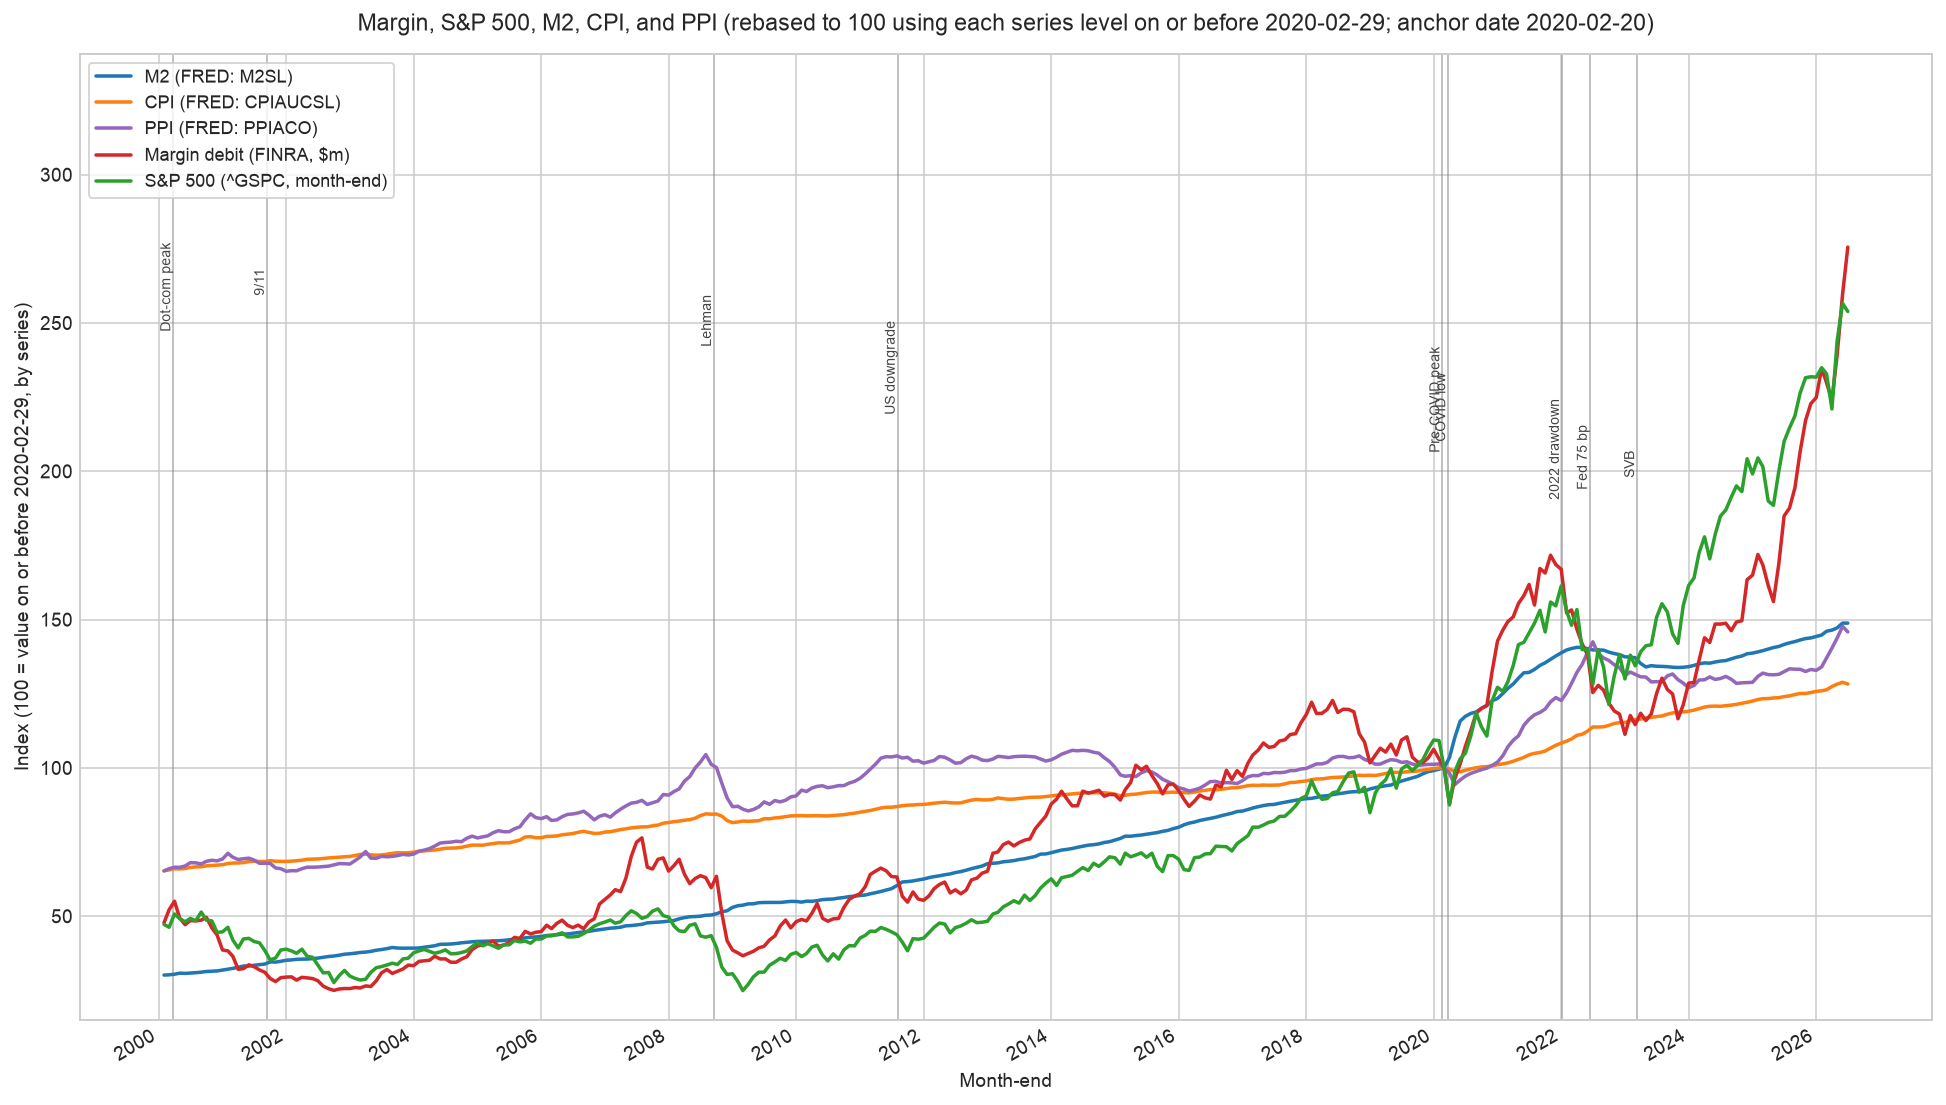
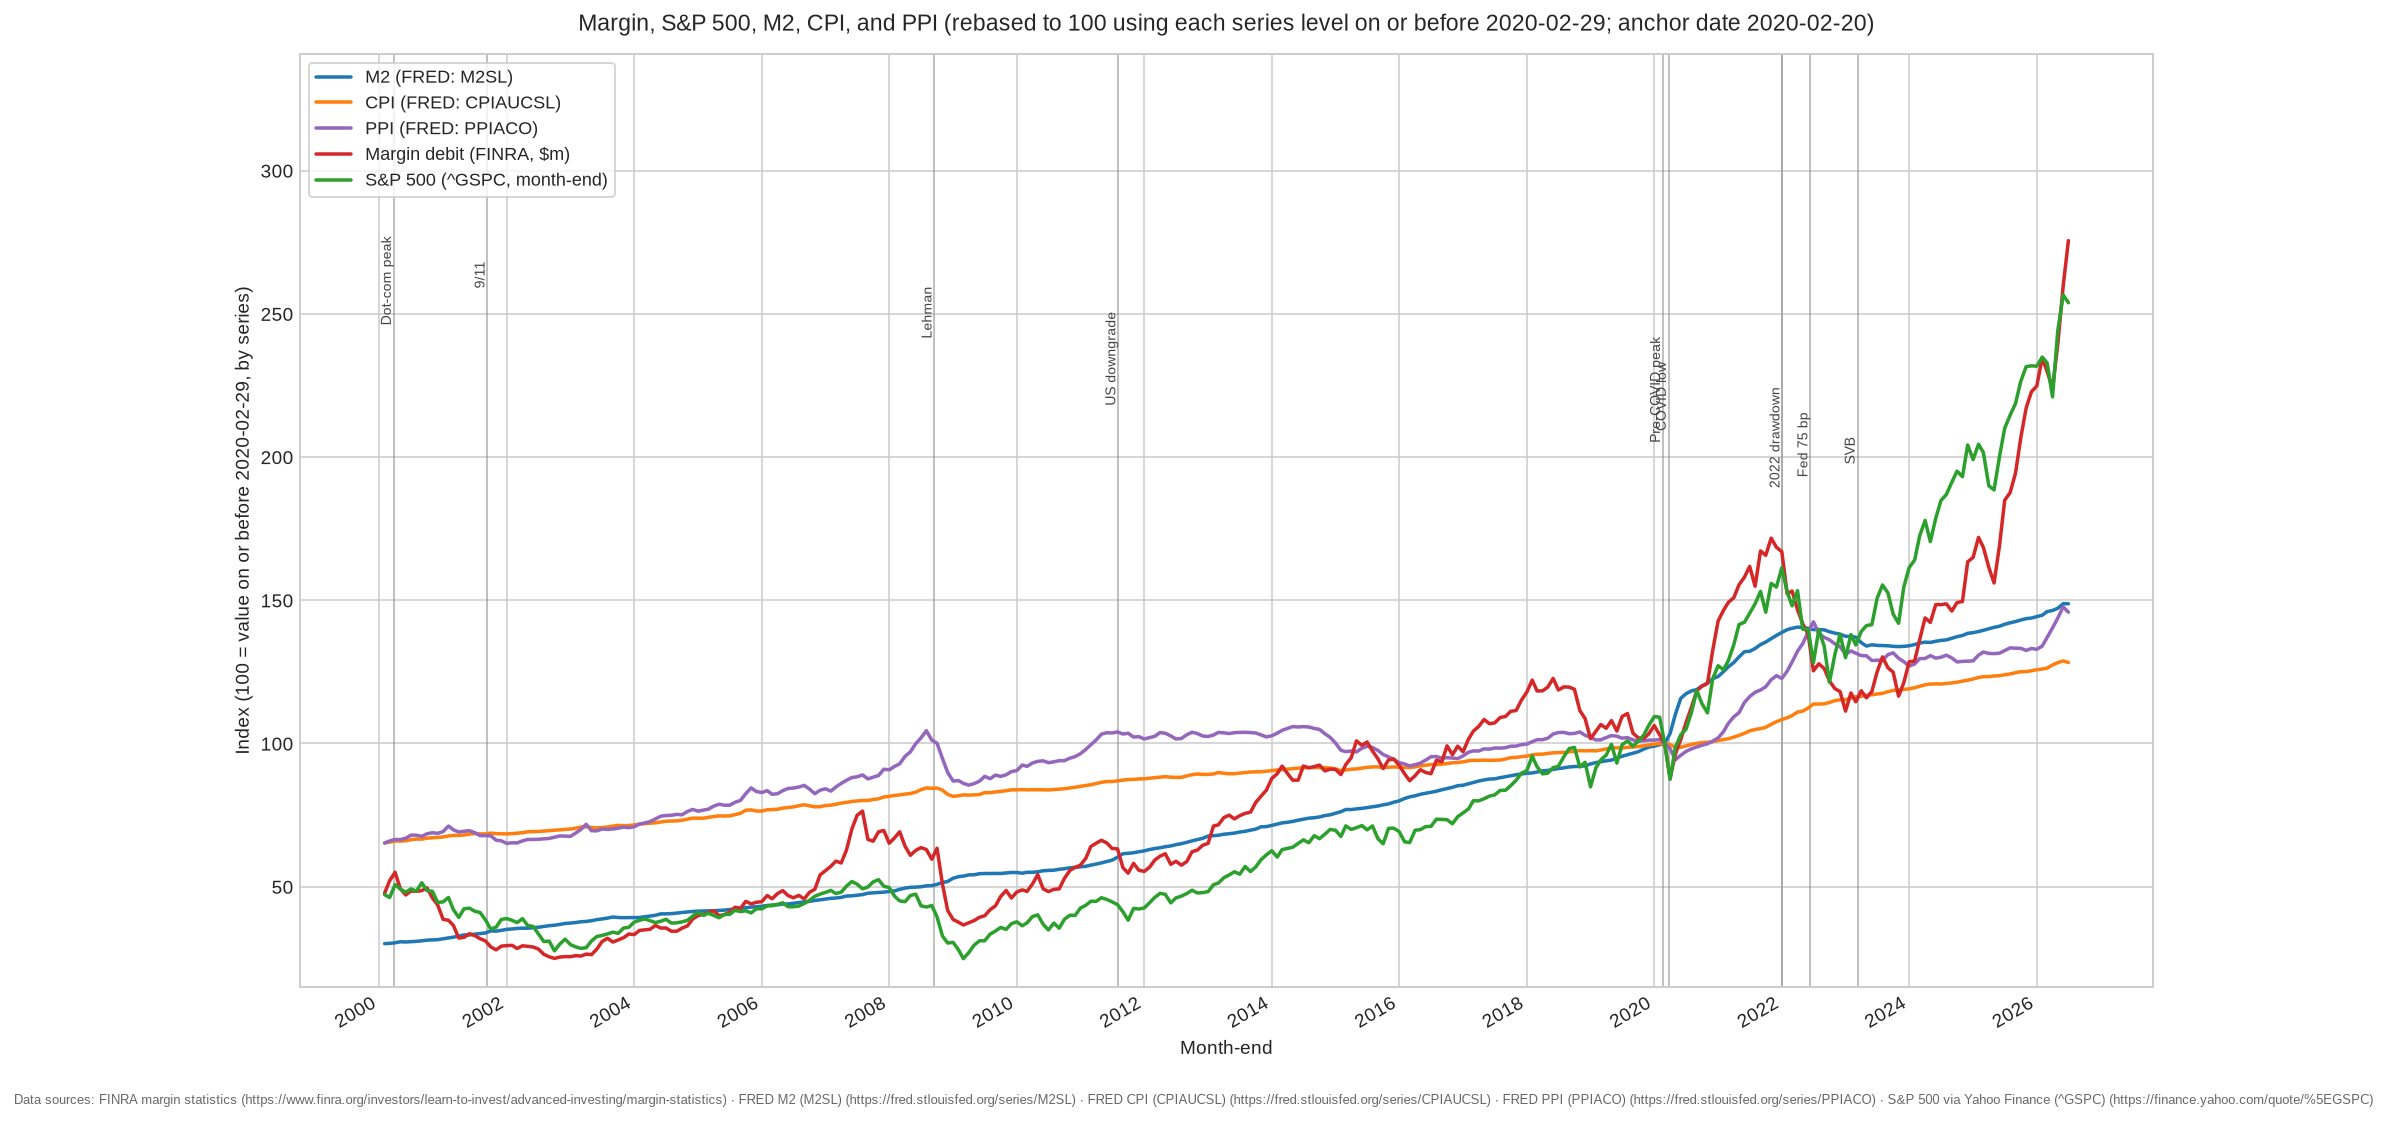
Document and link data sources on every site
Each generated page now carries a "Data sources" section that names each
upstream source and links it, so a reader with only the HTML/PNG can see and
follow the provenance — not just the README.

- margin-sp500-m2-visualization: linked "Data sources" footer on the HTML
  chart (FINRA, FRED M2/CPI/PPI, S&P 500 via Yahoo) and a plain-text source
  line on the PNG.
- union-station-transit-isochrone: "Data sources" panel section linking
  OpenStreetMap/Geofabrik, TTC (Toronto Open Data), GO/UP (Metrolinx Open
  Data), and r5py.
- toronto-vulnerable-services-map: "Data sources" panel section (curated
  Sources doc, Toronto Open Data occupancy, OpenStreetMap/Nominatim); also
  fixed the README's broken link to the Sources doc (now data/SOURCES.md).
- ontario-physiotherapy-clinics-map: renamed "Source" to "Data sources" and
  added the OpenStreetMap Nominatim geocoding + Open Data datastore credit.
- new-project.py: scaffolded sites now render a placeholder "Data sources"
  section, with a smoke test asserting it; documented the convention in
  AGENTS.md.

Outputs rebuilt from committed data via `make`.

Claude-Session: https://claude.ai/code/session_01XLHPphw6XSuu5YzvyHr2n1

diff --git a/union-station-transit-isochrone/output/union-station-transit-isochrone.html b/union-station-transit-isochrone/output/union-station-transit-isochrone.html
@@ -19,6 +19,8 @@
   .panel p { font-size: 12px; color: #444; margin: 4px 0; }
   .panel a { color: #1f78b4; text-decoration: none; }
   .panel a:hover { text-decoration: underline; }
+  .sources { font-size: 12px; color: #444; margin: 4px 0; padding-left: 18px; }
+  .sources li { margin: 3px 0; }
   .legend-row { display: flex; align-items: center; font-size: 12px; margin: 4px 0; }
   .swatch { width: 14px; height: 14px; border-radius: 3px; margin-right: 8px; border: 1px solid rgba(0,0,0,.25); }
   .dot { width: 11px; height: 11px; border-radius: 50%; margin-right: 8px; border: 1px solid rgba(0,0,0,.3); }
@@ -61,6 +63,22 @@
 
   <h2>Assumptions</h2>
   <p id="assume"></p>
+
+  <h2>Data sources</h2>
+  <ul class="sources">
+    <li>Street &amp; walk network:
+      <a href="https://www.openstreetmap.org/copyright" target="_blank" rel="noopener">OpenStreetMap</a>
+      (&copy; OpenStreetMap contributors), via a
+      <a href="https://download.geofabrik.de/north-america/canada/ontario.html" target="_blank" rel="noopener">Geofabrik</a> extract</li>
+    <li>TTC subway / streetcar / bus schedules (GTFS):
+      <a href="https://open.toronto.ca/dataset/ttc-routes-and-schedules/" target="_blank" rel="noopener">Toronto Open Data</a></li>
+    <li>GO Transit &amp; UP Express schedules (GTFS):
+      <a href="https://www.metrolinx.com/en/about-us/open-data" target="_blank" rel="noopener">Metrolinx Open Data</a></li>
+    <li>Multimodal transit routing:
+      <a href="https://r5py.readthedocs.io/" target="_blank" rel="noopener">r5py</a> (Conveyal R5)</li>
+    <li>Map tiles: &copy;
+      <a href="https://www.openstreetmap.org/copyright" target="_blank" rel="noopener">OpenStreetMap</a> contributors</li>
+  </ul>
 
   <details>
     <summary>Method &amp; caveats</summary>

diff --git a/toronto-vulnerable-services-map/output/toronto-vulnerable-services-map.html b/toronto-vulnerable-services-map/output/toronto-vulnerable-services-map.html
@@ -19,6 +19,8 @@
   .panel p { font-size: 12px; color: #444; margin: 4px 0; }
   .panel a { color: #1f78b4; text-decoration: none; }
   .panel a:hover { text-decoration: underline; }
+  .sources { font-size: 12px; color: #444; margin: 4px 0; padding-left: 18px; }
+  .sources li { margin: 3px 0; }
   .dir { font-size: 12px; margin: 6px 0; }
   .dir .note { color: #666; display: block; }
   #stats { font-size: 12px; background: #f3f7fb; border: 1px solid #d6e4f0; border-radius: 6px; padding: 8px; }
@@ -52,6 +54,18 @@
 
   <h2>Directories &amp; Data</h2>
   <div id="directories"></div>
+
+  <h2>Data sources</h2>
+  <ul class="sources">
+    <li>Curated service locations &mdash; compiled from the City/Province pages linked above; see the
+      <a href="https://github.com/tianle91/StaticSites/blob/main/toronto-vulnerable-services-map/data/SOURCES.md" target="_blank" rel="noopener">Sources document</a></li>
+    <li>Live shelter occupancy &mdash;
+      <a href="https://open.toronto.ca/dataset/daily-shelter-overnight-service-occupancy-capacity/" target="_blank" rel="noopener">Toronto Open Data</a>
+      (Daily Shelter &amp; Overnight Service Occupancy)</li>
+    <li>Geocoding &amp; map tiles &mdash; &copy;
+      <a href="https://www.openstreetmap.org/copyright" target="_blank" rel="noopener">OpenStreetMap</a> contributors
+      (via Nominatim)</li>
+  </ul>
 
   <details>
     <summary>Notes &amp; caveats</summary>

diff --git a/ontario-physiotherapy-clinics-map/output/ontario-physiotherapy-clinics-map.html b/ontario-physiotherapy-clinics-map/output/ontario-physiotherapy-clinics-map.html
@@ -49,8 +49,11 @@
   <h2>Legend</h2>
   <div id="legend"></div>
 
-  <h2>Source</h2>
-  <p><a id="source" href="#" target="_blank" rel="noopener">ontario.ca &mdash; publicly-funded physiotherapy clinic locations</a></p>
+  <h2>Data sources</h2>
+  <p><a id="source" href="#" target="_blank" rel="noopener">ontario.ca &mdash; publicly-funded physiotherapy clinic locations</a>
+     (via the <a href="https://data.ontario.ca/dataset/publicly-funded-physiotherapy-clinics" target="_blank" rel="noopener">Ontario Open Data</a> CKAN datastore)</p>
+  <p style="color:#666">Coordinates geocoded with &copy;
+     <a href="https://www.openstreetmap.org/copyright" target="_blank" rel="noopener">OpenStreetMap</a> Nominatim; map tiles &copy; OpenStreetMap contributors.</p>
   <p id="generated" style="color:#666"></p>
 
   <details>

diff --git a/margin-sp500-m2-visualization/src/plot_macro_series.py b/margin-sp500-m2-visualization/src/plot_macro_series.py
@@ -79,6 +79,16 @@ SERIES_COLORS = {
     "S&P 500 (^GSPC, month-end)": "#2ca02c",
 }
 
+# Data sources, shown on the rendered chart itself so a reader who only has the
+# image/page can see (and follow) where each series came from. (label, url).
+DATA_SOURCES: list[tuple[str, str]] = [
+    ("FINRA margin statistics", "https://www.finra.org/investors/learn-to-invest/advanced-investing/margin-statistics"),
+    ("FRED M2 (M2SL)", "https://fred.stlouisfed.org/series/M2SL"),
+    ("FRED CPI (CPIAUCSL)", "https://fred.stlouisfed.org/series/CPIAUCSL"),
+    ("FRED PPI (PPIACO)", "https://fred.stlouisfed.org/series/PPIACO"),
+    ("S&P 500 via Yahoo Finance (^GSPC)", "https://finance.yahoo.com/quote/%5EGSPC"),
+]
+
 
 def build_rebased(rebase_anchor: pd.Timestamp) -> pd.DataFrame:
     """Align the committed series on month-ends and rebase each to 100 at the anchor."""
@@ -165,7 +175,15 @@ def render_png(rebased: pd.DataFrame, out_path: Path) -> None:
     ax.xaxis.set_major_formatter(mdates.DateFormatter("%Y"))
     ax.legend(loc="upper left", frameon=True, fontsize=9)
     fig.autofmt_xdate()
-    fig.tight_layout()
+    fig.tight_layout(rect=(0, 0.03, 1, 1))
+
+    # Attribute the data sources on the image itself (URLs can't be clickable in a
+    # PNG, but a reader with only the picture can still see where the data is from).
+    fig.text(
+        0.5, 0.005,
+        "Data sources: " + " · ".join(f"{label} ({url})" for label, url in DATA_SOURCES),
+        ha="center", va="bottom", fontsize=6.5, color="#666666",
+    )
 
     out_path.parent.mkdir(parents=True, exist_ok=True)
     fig.savefig(out_path, bbox_inches="tight")
@@ -255,12 +273,24 @@ def render_html(rebased: pd.DataFrame, out_path: Path) -> None:
     )
 
     out_path.parent.mkdir(parents=True, exist_ok=True)
-    fig.write_html(
-        out_path,
+    html = fig.to_html(
         include_plotlyjs="cdn",
         full_html=True,
         config={"scrollZoom": True, "displaylogo": False, "responsive": True},
     )
+    # Append a clickable "Data sources" footer so the standalone page documents
+    # and links its provenance, not just the README.
+    links = " · ".join(
+        f'<a href="{url}" target="_blank" rel="noopener">{label}</a>'
+        for label, url in DATA_SOURCES
+    )
+    footer = (
+        '<footer style="font-family:system-ui,-apple-system,Segoe UI,Roboto,sans-serif;'
+        'font-size:12px;color:#666;text-align:center;padding:8px 16px 16px">'
+        "<strong>Data sources:</strong> " + links + "</footer>"
+    )
+    html = html.replace("</body>", footer + "</body>", 1)
+    out_path.write_text(html, encoding="utf-8")
 
 
 def build_chart(out_path: Path, rebase_anchor: pd.Timestamp) -> None:

diff --git a/new-project.py b/new-project.py
@@ -167,8 +167,12 @@ HTML = """<!DOCTYPE html>
   body { margin: 0; font-family: system-ui, -apple-system, Segoe UI, Roboto, sans-serif; }
   main { max-width: 760px; margin: 40px auto; padding: 0 16px; }
   h1 { font-size: 20px; margin: 0 0 4px; }
+  h2 { font-size: 14px; margin: 24px 0 6px; }
   p.meta { color: #555; font-size: 13px; margin: 0 0 20px; }
   li { margin: 4px 0; }
+  footer.sources { margin-top: 28px; border-top: 1px solid #eee; padding-top: 12px;
+    font-size: 13px; color: #555; }
+  footer.sources a { color: #1f78b4; }
 </style>
 </head>
 <body>
@@ -176,6 +180,16 @@ HTML = """<!DOCTYPE html>
   <h1>__TITLE__</h1>
   <p class="meta" id="meta"></p>
   <ul id="items"></ul>
+
+  <!-- Every site documents where its data came from, and links it. Replace these
+       placeholders with the real upstream sources (keep them in sync with the
+       "Data sources" section of README.md). -->
+  <footer class="sources">
+    <h2>Data sources</h2>
+    <ul>
+      <li><a href="https://example.com/" target="_blank" rel="noopener">TODO: upstream source</a></li>
+    </ul>
+  </footer>
 </main>
 <script>
 const DATA = __PAYLOAD__;
@@ -232,6 +246,11 @@ def built(tmp_path):
 def test_html_is_self_contained(built):
     assert built.startswith("<!DOCTYPE html")
     assert "__PAYLOAD__" not in built          # payload was substituted
+
+
+def test_documents_data_sources(built):
+    # Every site must document its data sources on the page itself.
+    assert "Data sources" in built
 '''
 
 FILES["README.md"] = '''\

diff --git a/union-station-transit-isochrone/src/build_map.py b/union-station-transit-isochrone/src/build_map.py
@@ -67,6 +67,8 @@ HTML = """<!DOCTYPE html>
   .panel p { font-size: 12px; color: #444; margin: 4px 0; }
   .panel a { color: #1f78b4; text-decoration: none; }
   .panel a:hover { text-decoration: underline; }
+  .sources { font-size: 12px; color: #444; margin: 4px 0; padding-left: 18px; }
+  .sources li { margin: 3px 0; }
   .legend-row { display: flex; align-items: center; font-size: 12px; margin: 4px 0; }
   .swatch { width: 14px; height: 14px; border-radius: 3px; margin-right: 8px; border: 1px solid rgba(0,0,0,.25); }
   .dot { width: 11px; height: 11px; border-radius: 50%; margin-right: 8px; border: 1px solid rgba(0,0,0,.3); }
@@ -109,6 +111,22 @@ HTML = """<!DOCTYPE html>
 
   <h2>Assumptions</h2>
   <p id="assume"></p>
+
+  <h2>Data sources</h2>
+  <ul class="sources">
+    <li>Street &amp; walk network:
+      <a href="https://www.openstreetmap.org/copyright" target="_blank" rel="noopener">OpenStreetMap</a>
+      (&copy; OpenStreetMap contributors), via a
+      <a href="https://download.geofabrik.de/north-america/canada/ontario.html" target="_blank" rel="noopener">Geofabrik</a> extract</li>
+    <li>TTC subway / streetcar / bus schedules (GTFS):
+      <a href="https://open.toronto.ca/dataset/ttc-routes-and-schedules/" target="_blank" rel="noopener">Toronto Open Data</a></li>
+    <li>GO Transit &amp; UP Express schedules (GTFS):
+      <a href="https://www.metrolinx.com/en/about-us/open-data" target="_blank" rel="noopener">Metrolinx Open Data</a></li>
+    <li>Multimodal transit routing:
+      <a href="https://r5py.readthedocs.io/" target="_blank" rel="noopener">r5py</a> (Conveyal R5)</li>
+    <li>Map tiles: &copy;
+      <a href="https://www.openstreetmap.org/copyright" target="_blank" rel="noopener">OpenStreetMap</a> contributors</li>
+  </ul>
 
   <details>
     <summary>Method &amp; caveats</summary>

diff --git a/toronto-vulnerable-services-map/src/build_map.py b/toronto-vulnerable-services-map/src/build_map.py
@@ -89,6 +89,8 @@ HTML = """<!DOCTYPE html>
   .panel p { font-size: 12px; color: #444; margin: 4px 0; }
   .panel a { color: #1f78b4; text-decoration: none; }
   .panel a:hover { text-decoration: underline; }
+  .sources { font-size: 12px; color: #444; margin: 4px 0; padding-left: 18px; }
+  .sources li { margin: 3px 0; }
   .dir { font-size: 12px; margin: 6px 0; }
   .dir .note { color: #666; display: block; }
   #stats { font-size: 12px; background: #f3f7fb; border: 1px solid #d6e4f0; border-radius: 6px; padding: 8px; }
@@ -122,6 +124,18 @@ HTML = """<!DOCTYPE html>
 
   <h2>Directories &amp; Data</h2>
   <div id="directories"></div>
+
+  <h2>Data sources</h2>
+  <ul class="sources">
+    <li>Curated service locations &mdash; compiled from the City/Province pages linked above; see the
+      <a href="https://github.com/tianle91/StaticSites/blob/main/toronto-vulnerable-services-map/data/SOURCES.md" target="_blank" rel="noopener">Sources document</a></li>
+    <li>Live shelter occupancy &mdash;
+      <a href="https://open.toronto.ca/dataset/daily-shelter-overnight-service-occupancy-capacity/" target="_blank" rel="noopener">Toronto Open Data</a>
+      (Daily Shelter &amp; Overnight Service Occupancy)</li>
+    <li>Geocoding &amp; map tiles &mdash; &copy;
+      <a href="https://www.openstreetmap.org/copyright" target="_blank" rel="noopener">OpenStreetMap</a> contributors
+      (via Nominatim)</li>
+  </ul>
 
   <details>
     <summary>Notes &amp; caveats</summary>

diff --git a/ontario-physiotherapy-clinics-map/src/build_map.py b/ontario-physiotherapy-clinics-map/src/build_map.py
@@ -90,8 +90,11 @@ HTML = """<!DOCTYPE html>
   <h2>Legend</h2>
   <div id="legend"></div>
 
-  <h2>Source</h2>
-  <p><a id="source" href="#" target="_blank" rel="noopener">ontario.ca &mdash; publicly-funded physiotherapy clinic locations</a></p>
+  <h2>Data sources</h2>
+  <p><a id="source" href="#" target="_blank" rel="noopener">ontario.ca &mdash; publicly-funded physiotherapy clinic locations</a>
+     (via the <a href="https://data.ontario.ca/dataset/publicly-funded-physiotherapy-clinics" target="_blank" rel="noopener">Ontario Open Data</a> CKAN datastore)</p>
+  <p style="color:#666">Coordinates geocoded with &copy;
+     <a href="https://www.openstreetmap.org/copyright" target="_blank" rel="noopener">OpenStreetMap</a> Nominatim; map tiles &copy; OpenStreetMap contributors.</p>
   <p id="generated" style="color:#666"></p>
 
   <details>

diff --git a/AGENTS.md b/AGENTS.md
@@ -74,6 +74,11 @@ Rules that go with it:
   artifacts share the stem (`output/<project>.png`).
 - **`output/` is committed.** These sites are meant to work straight from a
   clone. Rebuild and commit the output whenever you change a builder.
+- **The site documents its own data sources.** Every generated page carries a
+  "Data sources" section that names each upstream source and **links** it, so a
+  reader who only has the HTML can see and follow the provenance — not just the
+  README. Keep it in sync with the README's "Data sources" section. The
+  scaffolder writes a placeholder version to fill in.
 - **`data/` is committed** where it is small enough (curated JSON, geocode
   caches, fetched CSV). Large binary inputs — OSM extracts, GTFS feeds — are
   gitignored, with a `data/README.md` recording how to obtain them.

diff --git a/toronto-vulnerable-services-map/README.md b/toronto-vulnerable-services-map/README.md
@@ -3,7 +3,7 @@
 An interactive Leaflet map of city/provincial services for vulnerable
 populations: emergency shelter access, warming & winter respite centres,
 food/drop-ins, harm reduction, and housing supports. Companion to
-[Toronto Vulnerable Services Sources](./Toronto%20Vulnerable%20Services%20Sources.md).
+[Toronto Vulnerable Services Sources](./data/SOURCES.md).
 
 ## Run
 